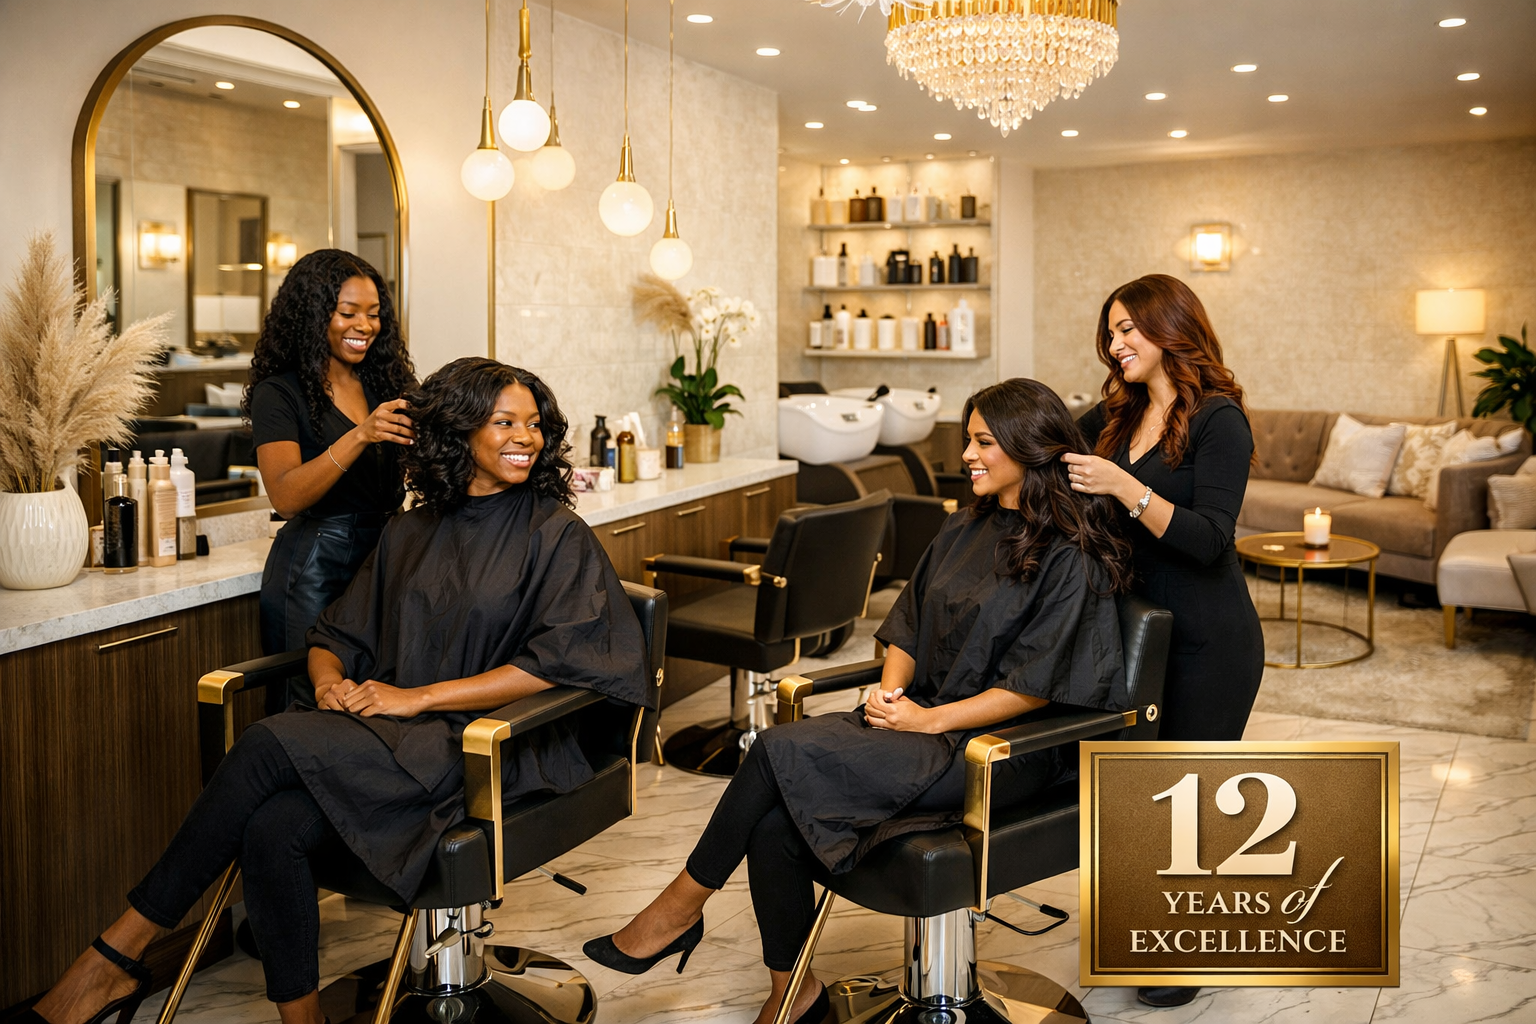
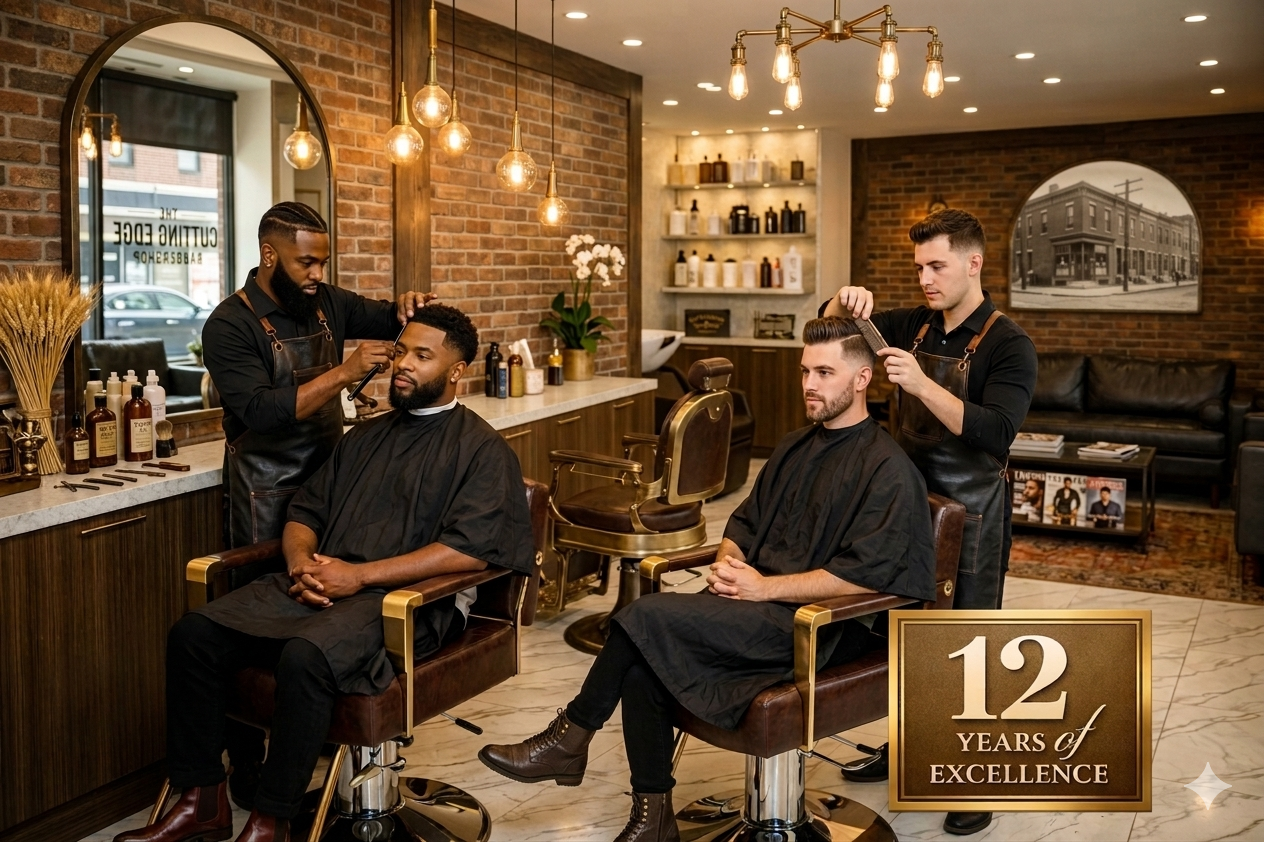
updates

diff --git a/src/components/ServicesSection.tsx b/src/components/ServicesSection.tsx
@@ -1,31 +1,36 @@
 import { motion, useInView } from "framer-motion";
 import { useRef, useState } from "react";
 import { ArrowUpRight, X } from "lucide-react";
-import serviceHair from "@/assets/service-hair.jpg";
-import serviceSkin from "@/assets/service-skin.jpg";
-import serviceNails from "@/assets/service-nails.jpg";
+
+// ✅ Barber images (must exist in /assets)
+import haircut from "../assets/haircut.png";
+import beard from "../assets/beard-grooming.png";
+import premium from "../assets/premium-service.png";
 
 const services = [
   {
-    title: "Hair Artistry",
-    subtitle: "Cut · Color · Style",
-    description: "Precision cuts and custom color tailored to your look.",
-    image: serviceHair,
-    price: "From $85",
+    title: "Precision Haircuts",
+    subtitle: "Fades · Tapers · Lineups",
+    description:
+      "Clean fades, sharp lineups, and modern cuts tailored to your style. Consistent, detailed, and always on point.",
+    image: haircut,
+    price: "From $40",
   },
   {
-    title: "Skin Treatments",
-    subtitle: "Facials · Glow · Therapy",
-    description: "Advanced skincare treatments for radiant, healthy skin.",
-    image: serviceSkin,
-    price: "From $120",
+    title: "Beard Grooming",
+    subtitle: "Shape · Line · Condition",
+    description:
+      "Expert beard shaping and lineups with hot towel treatment and premium products for a sharp, polished finish.",
+    image: beard,
+    price: "From $25",
   },
   {
-    title: "Nail Services",
-    subtitle: "Manicure · Pedicure · Design",
-    description: "Clean, detailed nail care with premium products.",
-    image: serviceNails,
-    price: "From $55",
+    title: "Full Service Experience",
+    subtitle: "Cut · Beard · Hot Towel",
+    description:
+      "Complete barbershop experience including haircut, beard grooming, and hot towel treatment. The full reset.",
+    image: premium,
+    price: "From $65",
   },
 ];
 
@@ -43,13 +48,14 @@ const ServicesSection = () => {
           ref={ref}
           initial={{ opacity: 0, y: 30 }}
           animate={isInView ? { opacity: 1, y: 0 } : {}}
+          transition={{ duration: 0.8 }}
           className="mb-16"
         >
           <span className="text-xs tracking-[0.3em] uppercase text-gold mb-4 block">
             Services
           </span>
           <h2 className="text-4xl md:text-6xl font-light mb-4">
-            Designed For You
+            Built For Precision
           </h2>
         </motion.div>
 
@@ -64,7 +70,8 @@ const ServicesSection = () => {
               <div className="relative h-[320px] overflow-hidden">
                 <img
                   src={service.image}
-                  className="w-full h-full object-cover group-hover:scale-105 transition"
+                  alt={service.title}
+                  className="w-full h-full object-cover group-hover:scale-105 transition duration-500"
                 />
                 <div className="absolute inset-0 bg-black/40" />
 
@@ -73,7 +80,7 @@ const ServicesSection = () => {
                   <p className="text-sm opacity-80">{service.price}</p>
                 </div>
 
-                <div className="absolute top-4 right-4">
+                <div className="absolute top-4 right-4 text-white">
                   <ArrowUpRight />
                 </div>
               </div>
@@ -100,6 +107,7 @@ const ServicesSection = () => {
 
               <img
                 src={activeService.image}
+                alt={activeService.title}
                 className="w-full h-[200px] object-cover mb-6"
               />
 
